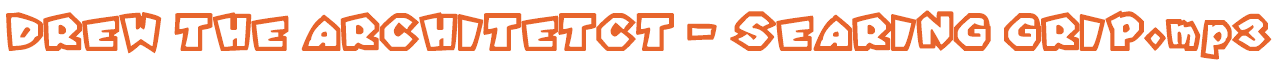
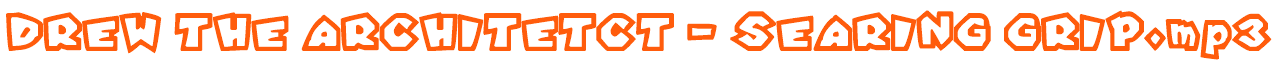
wallpaper density change, new font style change, color change attempt 2

Changed region(s): [[0.0, 0.16, 1.0, 0.8]]

diff --git a/script.js b/script.js
@@ -567,7 +567,11 @@ Object.assign(nowText.style, {
   alignItems: 'center',
   gap: '40px',
   width: '100%',
-  minWidth: '0'
+  minWidth: '0',
+  fontFamily: 'Impact, "Arial Narrow", sans-serif',
+  fontSize: '18px',
+  lineHeight: '24px',
+  color: '#FF5C0C'
 });
 nowPlaying.appendChild(nowText);
 
@@ -576,19 +580,18 @@ function getBaseName(path) {
 }
 
 function updateNowPlaying() {
-  const titleImages = [-1, 0, 1].map(offset => {
+  const titles = [-1, 0, 1].map(offset => {
     const path = tracks[(currentTrack + offset + tracks.length) % tracks.length];
-    const trackNumber = path.split('/').pop().slice(0, 2);
-    const title = document.createElement('img');
-    title.src = `images/track-titles/${trackNumber}.png`;
-    title.alt = getBaseName(path);
+    const title = document.createElement('span');
+    title.textContent = getBaseName(path);
     const fade = offset === 0
       ? 'none'
       : `linear-gradient(to ${offset < 0 ? 'right' : 'left'}, transparent, rgba(0, 0, 0, 0.9))`;
     Object.assign(title.style, {
       display: 'block',
-      height: 'auto',
-      maxHeight: '24px',
+      whiteSpace: 'nowrap',
+      overflow: 'hidden',
+      textOverflow: 'ellipsis',
       maxWidth: offset === 0 ? 'max(0px, calc(80vw - 80px))' : '100%',
       justifySelf: ['end', 'center', 'start'][offset + 1],
       WebkitMaskImage: fade,
@@ -596,7 +599,7 @@ function updateNowPlaying() {
     });
     return title;
   });
-  nowText.replaceChildren(...titleImages);
+  nowText.replaceChildren(...titles);
 }
 // Initial call to show titles
 updateNowPlaying();

diff --git a/style.css b/style.css
@@ -5,7 +5,7 @@ body {
   background-color: black;
   background-image: url("images/DummyBox_wallpaper.png");
   background-repeat: repeat;
-  background-size: 400px 400px;
+  background-size: 800px 800px;
 }
 
 canvas {
